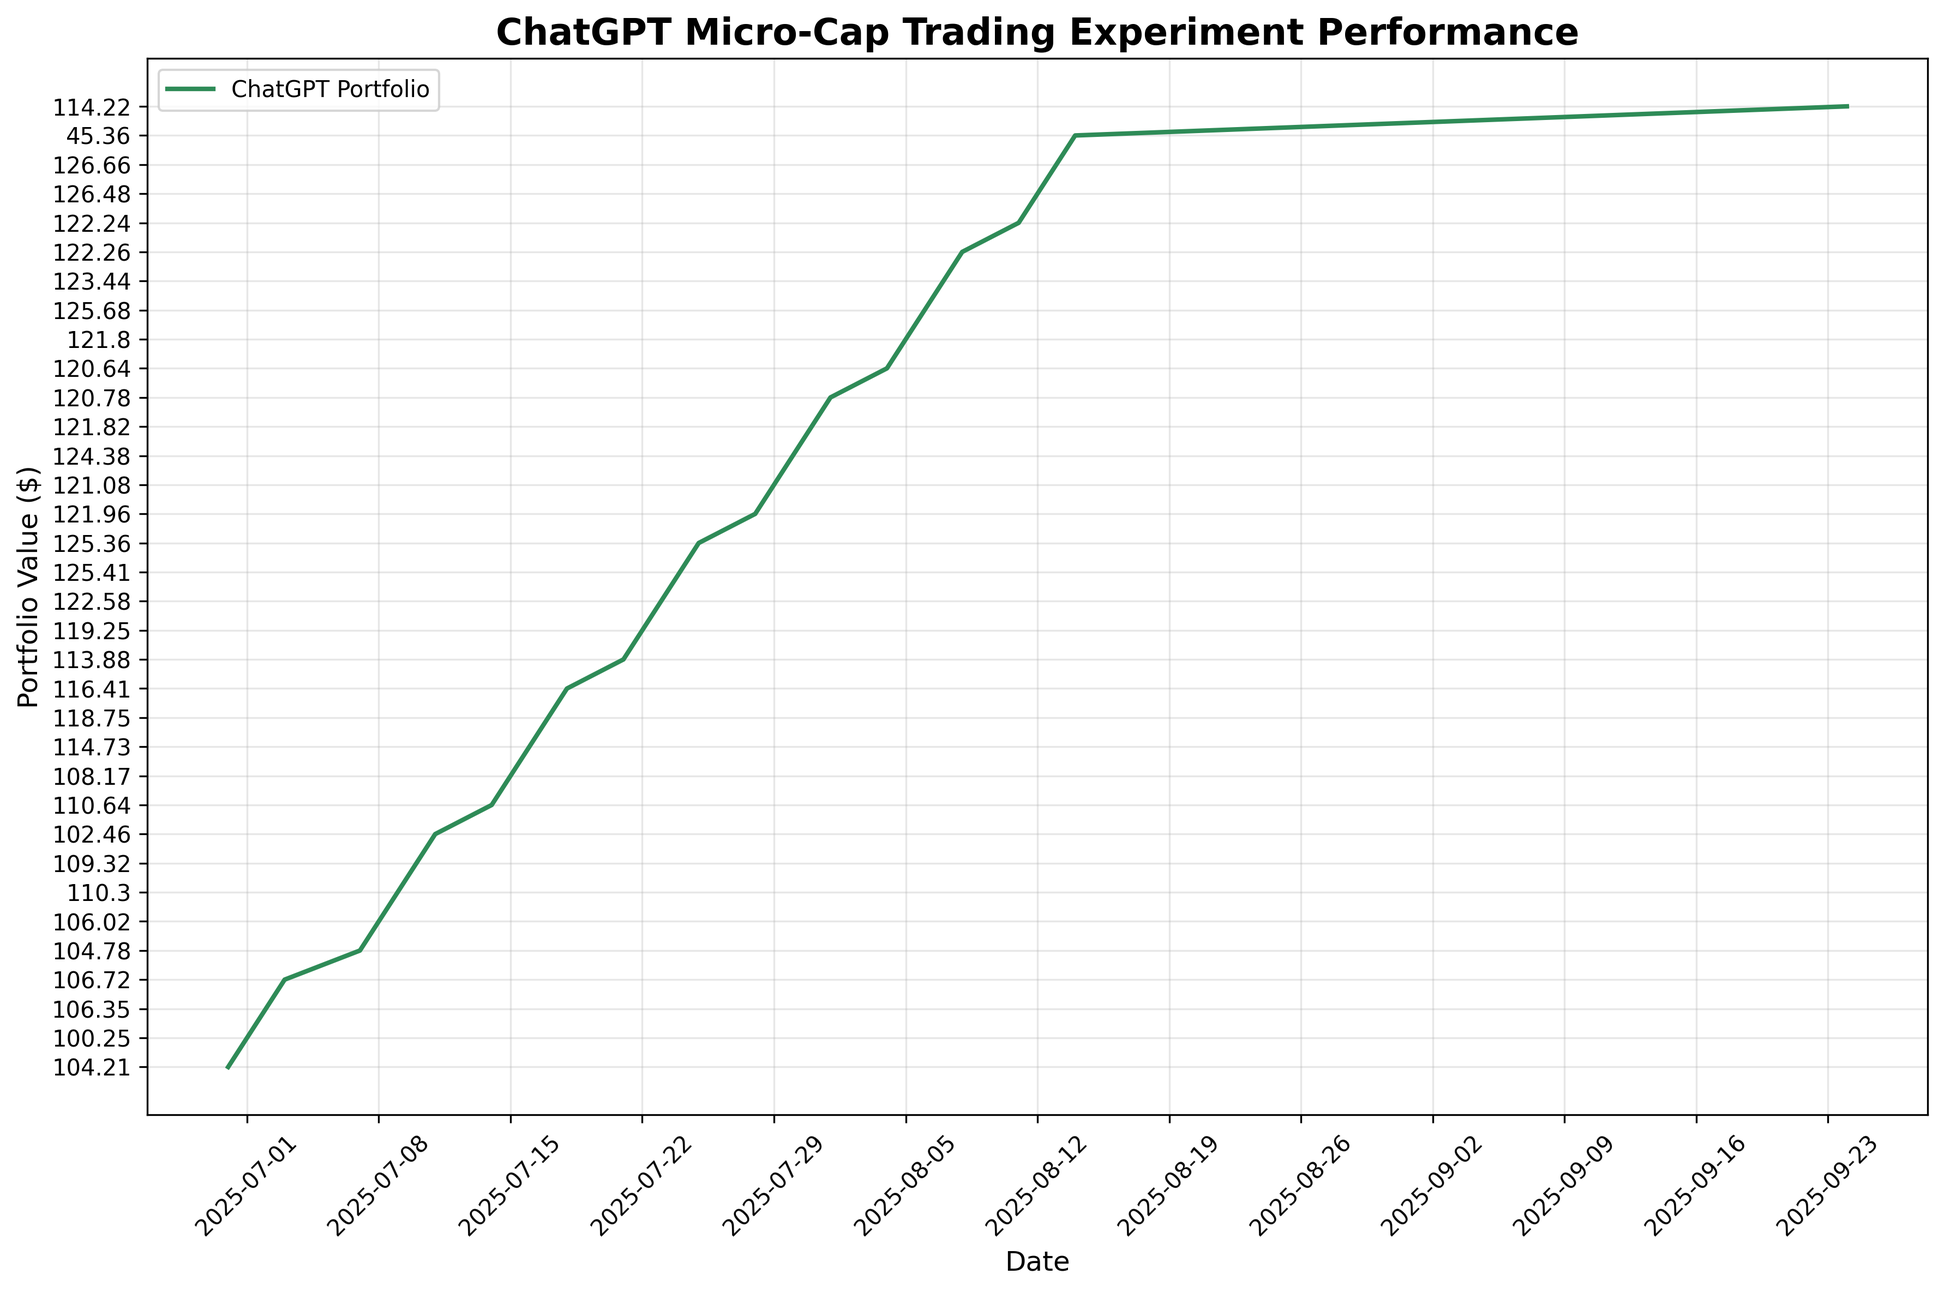
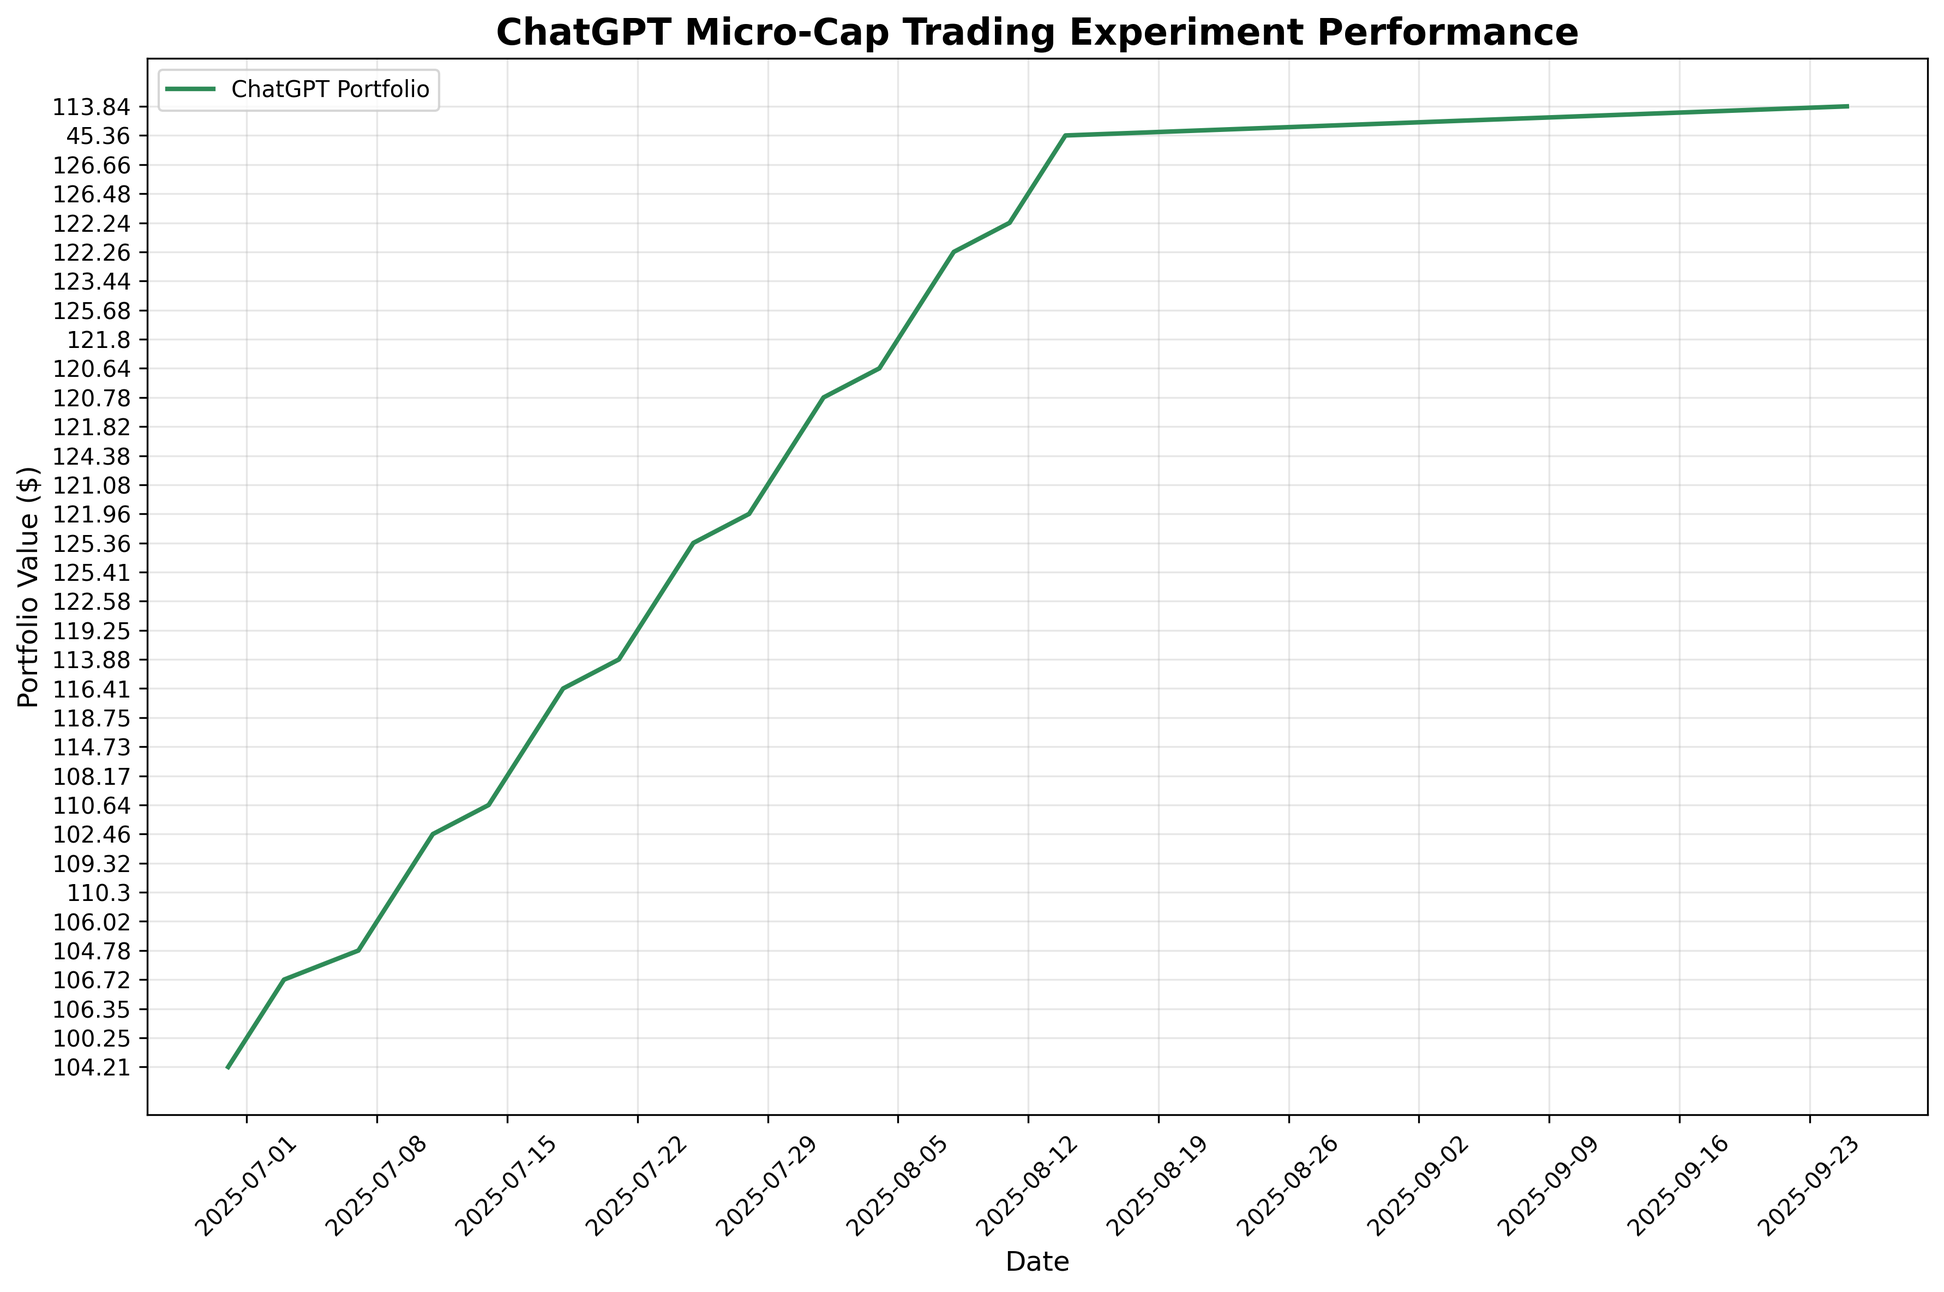
deploy: e15cad030d70fb3fbb51f9df6e22fa70c2f175c0

diff --git a/index.html b/index.html
@@ -105,7 +105,7 @@
                 <div class="stat-label">Total Trades</div>
             </div>
             <div class="stat-card">
-                <div class="stat-value" id="last-updated">2025-09-24</div>
+                <div class="stat-value" id="last-updated">2025-09-25</div>
                 <div class="stat-label">Last Updated</div>
             </div>
         </div>
@@ -160,7 +160,7 @@
     
     <script>
         // Portfolio data
-        const portfolioData = JSON.parse("[{&quot;Date&quot;: &quot;2025-08-11&quot;, &quot;Ticker&quot;: &quot;ABEO&quot;, &quot;Shares&quot;: 4.0, &quot;Buy Price&quot;: 5.77, &quot;Cost Basis&quot;: 23.08, &quot;Stop Loss&quot;: 4.9, &quot;Current Price&quot;: 6.28, &quot;Total Value&quot;: 25.12, &quot;PnL&quot;: 2.04, &quot;Action&quot;: &quot;HOLD&quot;, &quot;Cash Balance&quot;: NaN, &quot;Total Equity&quot;: NaN}, {&quot;Date&quot;: &quot;2025-08-11&quot;, &quot;Ticker&quot;: &quot;ACTU&quot;, &quot;Shares&quot;: 6.0, &quot;Buy Price&quot;: 5.75, &quot;Cost Basis&quot;: 34.5, &quot;Stop Loss&quot;: 4.89, &quot;Current Price&quot;: 8.01, &quot;Total Value&quot;: 48.06, &quot;PnL&quot;: 13.56, &quot;Action&quot;: &quot;HOLD&quot;, &quot;Cash Balance&quot;: NaN, &quot;Total Equity&quot;: NaN}, {&quot;Date&quot;: &quot;2025-08-11&quot;, &quot;Ticker&quot;: &quot;ESPR&quot;, &quot;Shares&quot;: 2.0, &quot;Buy Price&quot;: 1.91, &quot;Cost Basis&quot;: 3.82, &quot;Stop Loss&quot;: 1.6, &quot;Current Price&quot;: 1.85, &quot;Total Value&quot;: 3.7, &quot;PnL&quot;: -0.12, &quot;Action&quot;: &quot;HOLD&quot;, &quot;Cash Balance&quot;: NaN, &quot;Total Equity&quot;: NaN}, {&quot;Date&quot;: &quot;2025-08-11&quot;, &quot;Ticker&quot;: &quot;TOTAL&quot;, &quot;Shares&quot;: NaN, &quot;Buy Price&quot;: NaN, &quot;Cost Basis&quot;: NaN, &quot;Stop Loss&quot;: NaN, &quot;Current Price&quot;: NaN, &quot;Total Value&quot;: 76.88, &quot;PnL&quot;: 15.48, &quot;Action&quot;: NaN, &quot;Cash Balance&quot;: 45.36, &quot;Total Equity&quot;: &quot;122.24&quot;}, {&quot;Date&quot;: &quot;2025-08-12&quot;, &quot;Ticker&quot;: &quot;ABEO&quot;, &quot;Shares&quot;: 4.0, &quot;Buy Price&quot;: 5.77, &quot;Cost Basis&quot;: 23.08, &quot;Stop Loss&quot;: 4.9, &quot;Current Price&quot;: 6.38, &quot;Total Value&quot;: 25.52, &quot;PnL&quot;: 2.44, &quot;Action&quot;: &quot;HOLD&quot;, &quot;Cash Balance&quot;: NaN, &quot;Total Equity&quot;: NaN}, {&quot;Date&quot;: &quot;2025-08-12&quot;, &quot;Ticker&quot;: &quot;ACTU&quot;, &quot;Shares&quot;: 6.0, &quot;Buy Price&quot;: 5.75, &quot;Cost Basis&quot;: 34.5, &quot;Stop Loss&quot;: 4.89, &quot;Current Price&quot;: 8.67, &quot;Total Value&quot;: 52.02, &quot;PnL&quot;: 17.52, &quot;Action&quot;: &quot;HOLD&quot;, &quot;Cash Balance&quot;: NaN, &quot;Total Equity&quot;: NaN}, {&quot;Date&quot;: &quot;2025-08-12&quot;, &quot;Ticker&quot;: &quot;ESPR&quot;, &quot;Shares&quot;: 2.0, &quot;Buy Price&quot;: 1.91, &quot;Cost Basis&quot;: 3.82, &quot;Stop Loss&quot;: 1.6, &quot;Current Price&quot;: 1.79, &quot;Total Value&quot;: 3.58, &quot;PnL&quot;: -0.24, &quot;Action&quot;: &quot;HOLD&quot;, &quot;Cash Balance&quot;: NaN, &quot;Total Equity&quot;: NaN}, {&quot;Date&quot;: &quot;2025-08-12&quot;, &quot;Ticker&quot;: &quot;TOTAL&quot;, &quot;Shares&quot;: NaN, &quot;Buy Price&quot;: NaN, &quot;Cost Basis&quot;: NaN, &quot;Stop Loss&quot;: NaN, &quot;Current Price&quot;: NaN, &quot;Total Value&quot;: 81.12, &quot;PnL&quot;: 19.72, &quot;Action&quot;: NaN, &quot;Cash Balance&quot;: 45.36, &quot;Total Equity&quot;: &quot;126.48&quot;}, {&quot;Date&quot;: &quot;2025-08-13&quot;, &quot;Ticker&quot;: &quot;ABEO&quot;, &quot;Shares&quot;: 4.0, &quot;Buy Price&quot;: 5.77, &quot;Cost Basis&quot;: 23.08, &quot;Stop Loss&quot;: 4.9, &quot;Current Price&quot;: 6.56, &quot;Total Value&quot;: 26.24, &quot;PnL&quot;: 3.16, &quot;Action&quot;: &quot;HOLD&quot;, &quot;Cash Balance&quot;: NaN, &quot;Total Equity&quot;: NaN}, {&quot;Date&quot;: &quot;2025-08-13&quot;, &quot;Ticker&quot;: &quot;ACTU&quot;, &quot;Shares&quot;: 6.0, &quot;Buy Price&quot;: 5.75, &quot;Cost Basis&quot;: 34.5, &quot;Stop Loss&quot;: 4.89, &quot;Current Price&quot;: 8.53, &quot;Total Value&quot;: 51.18, &quot;PnL&quot;: 16.68, &quot;Action&quot;: &quot;HOLD&quot;, &quot;Cash Balance&quot;: NaN, &quot;Total Equity&quot;: NaN}, {&quot;Date&quot;: &quot;2025-08-13&quot;, &quot;Ticker&quot;: &quot;ESPR&quot;, &quot;Shares&quot;: 2.0, &quot;Buy Price&quot;: 1.91, &quot;Cost Basis&quot;: 3.82, &quot;Stop Loss&quot;: 1.6, &quot;Current Price&quot;: 1.94, &quot;Total Value&quot;: 3.88, &quot;PnL&quot;: 0.06, &quot;Action&quot;: &quot;HOLD&quot;, &quot;Cash Balance&quot;: NaN, &quot;Total Equity&quot;: NaN}, {&quot;Date&quot;: &quot;2025-08-13&quot;, &quot;Ticker&quot;: &quot;TOTAL&quot;, &quot;Shares&quot;: NaN, &quot;Buy Price&quot;: NaN, &quot;Cost Basis&quot;: NaN, &quot;Stop Loss&quot;: NaN, &quot;Current Price&quot;: NaN, &quot;Total Value&quot;: 81.3, &quot;PnL&quot;: 19.9, &quot;Action&quot;: NaN, &quot;Cash Balance&quot;: 45.36, &quot;Total Equity&quot;: &quot;126.66&quot;}, {&quot;Date&quot;: &quot;2025-08-14&quot;, &quot;Ticker&quot;: &quot;ABEO&quot;, &quot;Shares&quot;: 4.0, &quot;Buy Price&quot;: 5.77, &quot;Cost Basis&quot;: 23.08, &quot;Stop Loss&quot;: 4.9, &quot;Current Price&quot;: NaN, &quot;Total Value&quot;: NaN, &quot;PnL&quot;: NaN, &quot;Action&quot;: &quot;NO DATA&quot;, &quot;Cash Balance&quot;: NaN, &quot;Total Equity&quot;: NaN}, {&quot;Date&quot;: &quot;2025-08-14&quot;, &quot;Ticker&quot;: &quot;ACTU&quot;, &quot;Shares&quot;: 6.0, &quot;Buy Price&quot;: 5.75, &quot;Cost Basis&quot;: 34.5, &quot;Stop Loss&quot;: 4.89, &quot;Current Price&quot;: NaN, &quot;Total Value&quot;: NaN, &quot;PnL&quot;: NaN, &quot;Action&quot;: &quot;NO DATA&quot;, &quot;Cash Balance&quot;: NaN, &quot;Total Equity&quot;: NaN}, {&quot;Date&quot;: &quot;2025-08-14&quot;, &quot;Ticker&quot;: &quot;ESPR&quot;, &quot;Shares&quot;: 2.0, &quot;Buy Price&quot;: 1.91, &quot;Cost Basis&quot;: 3.82, &quot;Stop Loss&quot;: 1.6, &quot;Current Price&quot;: NaN, &quot;Total Value&quot;: NaN, &quot;PnL&quot;: NaN, &quot;Action&quot;: &quot;NO DATA&quot;, &quot;Cash Balance&quot;: NaN, &quot;Total Equity&quot;: NaN}, {&quot;Date&quot;: &quot;2025-08-14&quot;, &quot;Ticker&quot;: &quot;TOTAL&quot;, &quot;Shares&quot;: NaN, &quot;Buy Price&quot;: NaN, &quot;Cost Basis&quot;: NaN, &quot;Stop Loss&quot;: NaN, &quot;Current Price&quot;: NaN, &quot;Total Value&quot;: 0.0, &quot;PnL&quot;: 0.0, &quot;Action&quot;: NaN, &quot;Cash Balance&quot;: 45.36, &quot;Total Equity&quot;: &quot;45.36&quot;}, {&quot;Date&quot;: &quot;2025-09-24&quot;, &quot;Ticker&quot;: &quot;ABEO&quot;, &quot;Shares&quot;: 4.0, &quot;Buy Price&quot;: 5.77, &quot;Cost Basis&quot;: 23.08, &quot;Stop Loss&quot;: 4.9, &quot;Current Price&quot;: 5.63, &quot;Total Value&quot;: 22.52, &quot;PnL&quot;: -0.56, &quot;Action&quot;: &quot;HOLD&quot;, &quot;Cash Balance&quot;: NaN, &quot;Total Equity&quot;: NaN}, {&quot;Date&quot;: &quot;2025-09-24&quot;, &quot;Ticker&quot;: &quot;ACTU&quot;, &quot;Shares&quot;: 6.0, &quot;Buy Price&quot;: 5.75, &quot;Cost Basis&quot;: 34.5, &quot;Stop Loss&quot;: 4.89, &quot;Current Price&quot;: 6.9, &quot;Total Value&quot;: 41.4, &quot;PnL&quot;: 6.9, &quot;Action&quot;: &quot;HOLD&quot;, &quot;Cash Balance&quot;: NaN, &quot;Total Equity&quot;: NaN}, {&quot;Date&quot;: &quot;2025-09-24&quot;, &quot;Ticker&quot;: &quot;ESPR&quot;, &quot;Shares&quot;: 2.0, &quot;Buy Price&quot;: 1.91, &quot;Cost Basis&quot;: 3.82, &quot;Stop Loss&quot;: 1.6, &quot;Current Price&quot;: 2.47, &quot;Total Value&quot;: 4.94, &quot;PnL&quot;: 1.12, &quot;Action&quot;: &quot;HOLD&quot;, &quot;Cash Balance&quot;: NaN, &quot;Total Equity&quot;: NaN}, {&quot;Date&quot;: &quot;2025-09-24&quot;, &quot;Ticker&quot;: &quot;TOTAL&quot;, &quot;Shares&quot;: NaN, &quot;Buy Price&quot;: NaN, &quot;Cost Basis&quot;: NaN, &quot;Stop Loss&quot;: NaN, &quot;Current Price&quot;: NaN, &quot;Total Value&quot;: 68.86, &quot;PnL&quot;: 7.46, &quot;Action&quot;: NaN, &quot;Cash Balance&quot;: 45.36, &quot;Total Equity&quot;: &quot;114.22&quot;}]");
+        const portfolioData = JSON.parse("[{&quot;Date&quot;: &quot;2025-08-11&quot;, &quot;Ticker&quot;: &quot;ABEO&quot;, &quot;Shares&quot;: 4.0, &quot;Buy Price&quot;: 5.77, &quot;Cost Basis&quot;: 23.08, &quot;Stop Loss&quot;: 4.9, &quot;Current Price&quot;: 6.28, &quot;Total Value&quot;: 25.12, &quot;PnL&quot;: 2.04, &quot;Action&quot;: &quot;HOLD&quot;, &quot;Cash Balance&quot;: NaN, &quot;Total Equity&quot;: NaN}, {&quot;Date&quot;: &quot;2025-08-11&quot;, &quot;Ticker&quot;: &quot;ACTU&quot;, &quot;Shares&quot;: 6.0, &quot;Buy Price&quot;: 5.75, &quot;Cost Basis&quot;: 34.5, &quot;Stop Loss&quot;: 4.89, &quot;Current Price&quot;: 8.01, &quot;Total Value&quot;: 48.06, &quot;PnL&quot;: 13.56, &quot;Action&quot;: &quot;HOLD&quot;, &quot;Cash Balance&quot;: NaN, &quot;Total Equity&quot;: NaN}, {&quot;Date&quot;: &quot;2025-08-11&quot;, &quot;Ticker&quot;: &quot;ESPR&quot;, &quot;Shares&quot;: 2.0, &quot;Buy Price&quot;: 1.91, &quot;Cost Basis&quot;: 3.82, &quot;Stop Loss&quot;: 1.6, &quot;Current Price&quot;: 1.85, &quot;Total Value&quot;: 3.7, &quot;PnL&quot;: -0.12, &quot;Action&quot;: &quot;HOLD&quot;, &quot;Cash Balance&quot;: NaN, &quot;Total Equity&quot;: NaN}, {&quot;Date&quot;: &quot;2025-08-11&quot;, &quot;Ticker&quot;: &quot;TOTAL&quot;, &quot;Shares&quot;: NaN, &quot;Buy Price&quot;: NaN, &quot;Cost Basis&quot;: NaN, &quot;Stop Loss&quot;: NaN, &quot;Current Price&quot;: NaN, &quot;Total Value&quot;: 76.88, &quot;PnL&quot;: 15.48, &quot;Action&quot;: NaN, &quot;Cash Balance&quot;: 45.36, &quot;Total Equity&quot;: &quot;122.24&quot;}, {&quot;Date&quot;: &quot;2025-08-12&quot;, &quot;Ticker&quot;: &quot;ABEO&quot;, &quot;Shares&quot;: 4.0, &quot;Buy Price&quot;: 5.77, &quot;Cost Basis&quot;: 23.08, &quot;Stop Loss&quot;: 4.9, &quot;Current Price&quot;: 6.38, &quot;Total Value&quot;: 25.52, &quot;PnL&quot;: 2.44, &quot;Action&quot;: &quot;HOLD&quot;, &quot;Cash Balance&quot;: NaN, &quot;Total Equity&quot;: NaN}, {&quot;Date&quot;: &quot;2025-08-12&quot;, &quot;Ticker&quot;: &quot;ACTU&quot;, &quot;Shares&quot;: 6.0, &quot;Buy Price&quot;: 5.75, &quot;Cost Basis&quot;: 34.5, &quot;Stop Loss&quot;: 4.89, &quot;Current Price&quot;: 8.67, &quot;Total Value&quot;: 52.02, &quot;PnL&quot;: 17.52, &quot;Action&quot;: &quot;HOLD&quot;, &quot;Cash Balance&quot;: NaN, &quot;Total Equity&quot;: NaN}, {&quot;Date&quot;: &quot;2025-08-12&quot;, &quot;Ticker&quot;: &quot;ESPR&quot;, &quot;Shares&quot;: 2.0, &quot;Buy Price&quot;: 1.91, &quot;Cost Basis&quot;: 3.82, &quot;Stop Loss&quot;: 1.6, &quot;Current Price&quot;: 1.79, &quot;Total Value&quot;: 3.58, &quot;PnL&quot;: -0.24, &quot;Action&quot;: &quot;HOLD&quot;, &quot;Cash Balance&quot;: NaN, &quot;Total Equity&quot;: NaN}, {&quot;Date&quot;: &quot;2025-08-12&quot;, &quot;Ticker&quot;: &quot;TOTAL&quot;, &quot;Shares&quot;: NaN, &quot;Buy Price&quot;: NaN, &quot;Cost Basis&quot;: NaN, &quot;Stop Loss&quot;: NaN, &quot;Current Price&quot;: NaN, &quot;Total Value&quot;: 81.12, &quot;PnL&quot;: 19.72, &quot;Action&quot;: NaN, &quot;Cash Balance&quot;: 45.36, &quot;Total Equity&quot;: &quot;126.48&quot;}, {&quot;Date&quot;: &quot;2025-08-13&quot;, &quot;Ticker&quot;: &quot;ABEO&quot;, &quot;Shares&quot;: 4.0, &quot;Buy Price&quot;: 5.77, &quot;Cost Basis&quot;: 23.08, &quot;Stop Loss&quot;: 4.9, &quot;Current Price&quot;: 6.56, &quot;Total Value&quot;: 26.24, &quot;PnL&quot;: 3.16, &quot;Action&quot;: &quot;HOLD&quot;, &quot;Cash Balance&quot;: NaN, &quot;Total Equity&quot;: NaN}, {&quot;Date&quot;: &quot;2025-08-13&quot;, &quot;Ticker&quot;: &quot;ACTU&quot;, &quot;Shares&quot;: 6.0, &quot;Buy Price&quot;: 5.75, &quot;Cost Basis&quot;: 34.5, &quot;Stop Loss&quot;: 4.89, &quot;Current Price&quot;: 8.53, &quot;Total Value&quot;: 51.18, &quot;PnL&quot;: 16.68, &quot;Action&quot;: &quot;HOLD&quot;, &quot;Cash Balance&quot;: NaN, &quot;Total Equity&quot;: NaN}, {&quot;Date&quot;: &quot;2025-08-13&quot;, &quot;Ticker&quot;: &quot;ESPR&quot;, &quot;Shares&quot;: 2.0, &quot;Buy Price&quot;: 1.91, &quot;Cost Basis&quot;: 3.82, &quot;Stop Loss&quot;: 1.6, &quot;Current Price&quot;: 1.94, &quot;Total Value&quot;: 3.88, &quot;PnL&quot;: 0.06, &quot;Action&quot;: &quot;HOLD&quot;, &quot;Cash Balance&quot;: NaN, &quot;Total Equity&quot;: NaN}, {&quot;Date&quot;: &quot;2025-08-13&quot;, &quot;Ticker&quot;: &quot;TOTAL&quot;, &quot;Shares&quot;: NaN, &quot;Buy Price&quot;: NaN, &quot;Cost Basis&quot;: NaN, &quot;Stop Loss&quot;: NaN, &quot;Current Price&quot;: NaN, &quot;Total Value&quot;: 81.3, &quot;PnL&quot;: 19.9, &quot;Action&quot;: NaN, &quot;Cash Balance&quot;: 45.36, &quot;Total Equity&quot;: &quot;126.66&quot;}, {&quot;Date&quot;: &quot;2025-08-14&quot;, &quot;Ticker&quot;: &quot;ABEO&quot;, &quot;Shares&quot;: 4.0, &quot;Buy Price&quot;: 5.77, &quot;Cost Basis&quot;: 23.08, &quot;Stop Loss&quot;: 4.9, &quot;Current Price&quot;: NaN, &quot;Total Value&quot;: NaN, &quot;PnL&quot;: NaN, &quot;Action&quot;: &quot;NO DATA&quot;, &quot;Cash Balance&quot;: NaN, &quot;Total Equity&quot;: NaN}, {&quot;Date&quot;: &quot;2025-08-14&quot;, &quot;Ticker&quot;: &quot;ACTU&quot;, &quot;Shares&quot;: 6.0, &quot;Buy Price&quot;: 5.75, &quot;Cost Basis&quot;: 34.5, &quot;Stop Loss&quot;: 4.89, &quot;Current Price&quot;: NaN, &quot;Total Value&quot;: NaN, &quot;PnL&quot;: NaN, &quot;Action&quot;: &quot;NO DATA&quot;, &quot;Cash Balance&quot;: NaN, &quot;Total Equity&quot;: NaN}, {&quot;Date&quot;: &quot;2025-08-14&quot;, &quot;Ticker&quot;: &quot;ESPR&quot;, &quot;Shares&quot;: 2.0, &quot;Buy Price&quot;: 1.91, &quot;Cost Basis&quot;: 3.82, &quot;Stop Loss&quot;: 1.6, &quot;Current Price&quot;: NaN, &quot;Total Value&quot;: NaN, &quot;PnL&quot;: NaN, &quot;Action&quot;: &quot;NO DATA&quot;, &quot;Cash Balance&quot;: NaN, &quot;Total Equity&quot;: NaN}, {&quot;Date&quot;: &quot;2025-08-14&quot;, &quot;Ticker&quot;: &quot;TOTAL&quot;, &quot;Shares&quot;: NaN, &quot;Buy Price&quot;: NaN, &quot;Cost Basis&quot;: NaN, &quot;Stop Loss&quot;: NaN, &quot;Current Price&quot;: NaN, &quot;Total Value&quot;: 0.0, &quot;PnL&quot;: 0.0, &quot;Action&quot;: NaN, &quot;Cash Balance&quot;: 45.36, &quot;Total Equity&quot;: &quot;45.36&quot;}, {&quot;Date&quot;: &quot;2025-09-25&quot;, &quot;Ticker&quot;: &quot;ABEO&quot;, &quot;Shares&quot;: 4.0, &quot;Buy Price&quot;: 5.77, &quot;Cost Basis&quot;: 23.08, &quot;Stop Loss&quot;: 4.9, &quot;Current Price&quot;: 5.47, &quot;Total Value&quot;: 21.88, &quot;PnL&quot;: -1.2, &quot;Action&quot;: &quot;HOLD&quot;, &quot;Cash Balance&quot;: NaN, &quot;Total Equity&quot;: NaN}, {&quot;Date&quot;: &quot;2025-09-25&quot;, &quot;Ticker&quot;: &quot;ACTU&quot;, &quot;Shares&quot;: 6.0, &quot;Buy Price&quot;: 5.75, &quot;Cost Basis&quot;: 34.5, &quot;Stop Loss&quot;: 4.89, &quot;Current Price&quot;: 6.95, &quot;Total Value&quot;: 41.7, &quot;PnL&quot;: 7.2, &quot;Action&quot;: &quot;HOLD&quot;, &quot;Cash Balance&quot;: NaN, &quot;Total Equity&quot;: NaN}, {&quot;Date&quot;: &quot;2025-09-25&quot;, &quot;Ticker&quot;: &quot;ESPR&quot;, &quot;Shares&quot;: 2.0, &quot;Buy Price&quot;: 1.91, &quot;Cost Basis&quot;: 3.82, &quot;Stop Loss&quot;: 1.6, &quot;Current Price&quot;: 2.45, &quot;Total Value&quot;: 4.9, &quot;PnL&quot;: 1.08, &quot;Action&quot;: &quot;HOLD&quot;, &quot;Cash Balance&quot;: NaN, &quot;Total Equity&quot;: NaN}, {&quot;Date&quot;: &quot;2025-09-25&quot;, &quot;Ticker&quot;: &quot;TOTAL&quot;, &quot;Shares&quot;: NaN, &quot;Buy Price&quot;: NaN, &quot;Cost Basis&quot;: NaN, &quot;Stop Loss&quot;: NaN, &quot;Current Price&quot;: NaN, &quot;Total Value&quot;: 68.48, &quot;PnL&quot;: 7.08, &quot;Action&quot;: NaN, &quot;Cash Balance&quot;: 45.36, &quot;Total Equity&quot;: &quot;113.84&quot;}]");
         const tradeData = JSON.parse("[{&quot;Date&quot;: &quot;2025-07-07&quot;, &quot;Ticker&quot;: &quot;CSAI&quot;, &quot;Shares Bought&quot;: NaN, &quot;Buy Price&quot;: NaN, &quot;Cost Basis&quot;: 1.9, &quot;PnL&quot;: 5.7, &quot;Reason&quot;: &quot;MANUAL SELL - Rotated into AZTR&quot;, &quot;Shares Sold&quot;: 15.0, &quot;Sell Price&quot;: 2.28}, {&quot;Date&quot;: &quot;2025-07-08&quot;, &quot;Ticker&quot;: &quot;IINN&quot;, &quot;Shares Bought&quot;: 20.0, &quot;Buy Price&quot;: 1.5, &quot;Cost Basis&quot;: 30.0, &quot;PnL&quot;: 0.0, &quot;Reason&quot;: &quot;MANUAL BUY - New position&quot;, &quot;Shares Sold&quot;: NaN, &quot;Sell Price&quot;: NaN}, {&quot;Date&quot;: &quot;2025-07-21&quot;, &quot;Ticker&quot;: &quot;CADL&quot;, &quot;Shares Bought&quot;: NaN, &quot;Buy Price&quot;: NaN, &quot;Cost Basis&quot;: 25.2, &quot;PnL&quot;: 8.5, &quot;Reason&quot;: &quot;MANUAL SELL - GAIN CAPITAL FOR ACTU&quot;, &quot;Shares Sold&quot;: 5.0, &quot;Sell Price&quot;: 6.59}, {&quot;Date&quot;: &quot;2025-07-21&quot;, &quot;Ticker&quot;: &quot;ACTU&quot;, &quot;Shares Bought&quot;: 6.0, &quot;Buy Price&quot;: 5.75, &quot;Cost Basis&quot;: 34.5, &quot;PnL&quot;: 0.0, &quot;Reason&quot;: &quot;MANUAL BUY - New position&quot;, &quot;Shares Sold&quot;: NaN, &quot;Sell Price&quot;: NaN}, {&quot;Date&quot;: &quot;2025-07-28&quot;, &quot;Ticker&quot;: &quot;IINN&quot;, &quot;Shares Bought&quot;: NaN, &quot;Buy Price&quot;: NaN, &quot;Cost Basis&quot;: 9.0, &quot;PnL&quot;: -0.5400000000000009, &quot;Reason&quot;: &quot;MANUAL SELL - POSITION REDUCTION&quot;, &quot;Shares Sold&quot;: 6.0, &quot;Sell Price&quot;: 1.41}, {&quot;Date&quot;: &quot;2025-07-29&quot;, &quot;Ticker&quot;: &quot;AZTR&quot;, &quot;Shares Bought&quot;: NaN, &quot;Buy Price&quot;: NaN, &quot;Cost Basis&quot;: 13.75, &quot;PnL&quot;: -2.75, &quot;Reason&quot;: &quot;MANUAL SELL - DILUTION RISK&quot;, &quot;Shares Sold&quot;: 55.0, &quot;Sell Price&quot;: 0.2}, {&quot;Date&quot;: &quot;2025-08-01&quot;, &quot;Ticker&quot;: &quot;IINN&quot;, &quot;Shares Bought&quot;: 2.0, &quot;Buy Price&quot;: 1.74, &quot;Cost Basis&quot;: 3.48, &quot;PnL&quot;: 0.0, &quot;Reason&quot;: &quot;MANUAL BUY - New position&quot;, &quot;Shares Sold&quot;: NaN, &quot;Sell Price&quot;: NaN}, {&quot;Date&quot;: &quot;2025-08-01&quot;, &quot;Ticker&quot;: &quot;ABEO&quot;, &quot;Shares Bought&quot;: NaN, &quot;Buy Price&quot;: NaN, &quot;Cost Basis&quot;: 11.54, &quot;PnL&quot;: 1.200000000000001, &quot;Reason&quot;: &quot;MANUAL SELL - TRIM AFTER SUPPORT LOSS&quot;, &quot;Shares Sold&quot;: 2.0, &quot;Sell Price&quot;: 6.37}, {&quot;Date&quot;: &quot;2025-08-07&quot;, &quot;Ticker&quot;: &quot;ESPR&quot;, &quot;Shares Bought&quot;: 2.0, &quot;Buy Price&quot;: 1.91, &quot;Cost Basis&quot;: 3.82, &quot;PnL&quot;: 0.0, &quot;Reason&quot;: &quot;MANUAL BUY - New position&quot;, &quot;Shares Sold&quot;: NaN, &quot;Sell Price&quot;: NaN}, {&quot;Date&quot;: &quot;2025-08-08&quot;, &quot;Ticker&quot;: &quot;IINN&quot;, &quot;Shares Bought&quot;: NaN, &quot;Buy Price&quot;: NaN, &quot;Cost Basis&quot;: 1.5, &quot;PnL&quot;: -6.4, &quot;Reason&quot;: &quot;AUTOMATED SELL - STOPLOSS TRIGGERED&quot;, &quot;Shares Sold&quot;: 16.0, &quot;Sell Price&quot;: 1.1}]");
         
         // Update total equity
